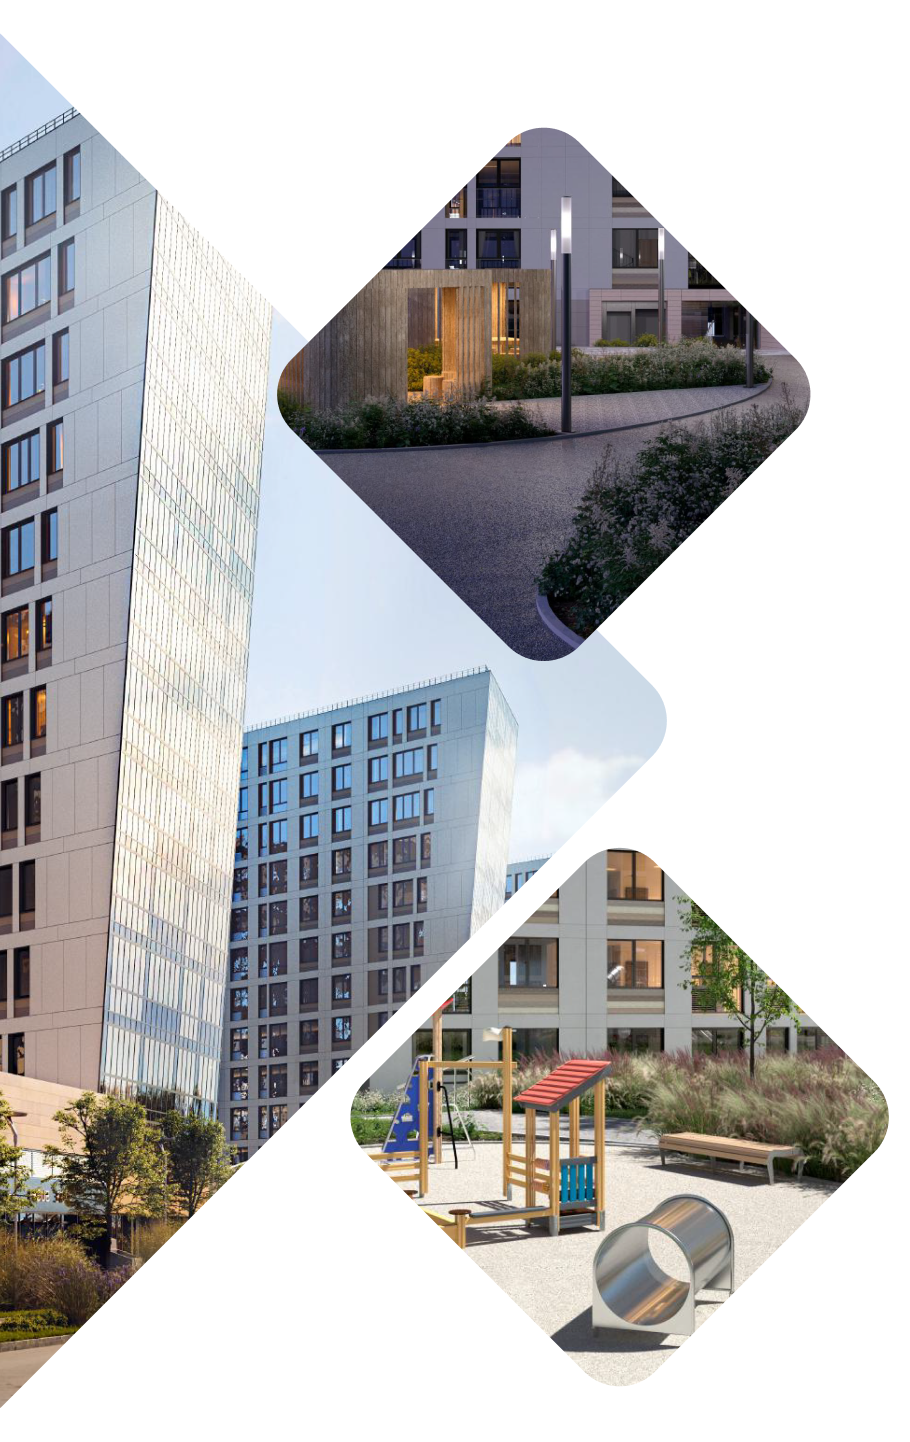
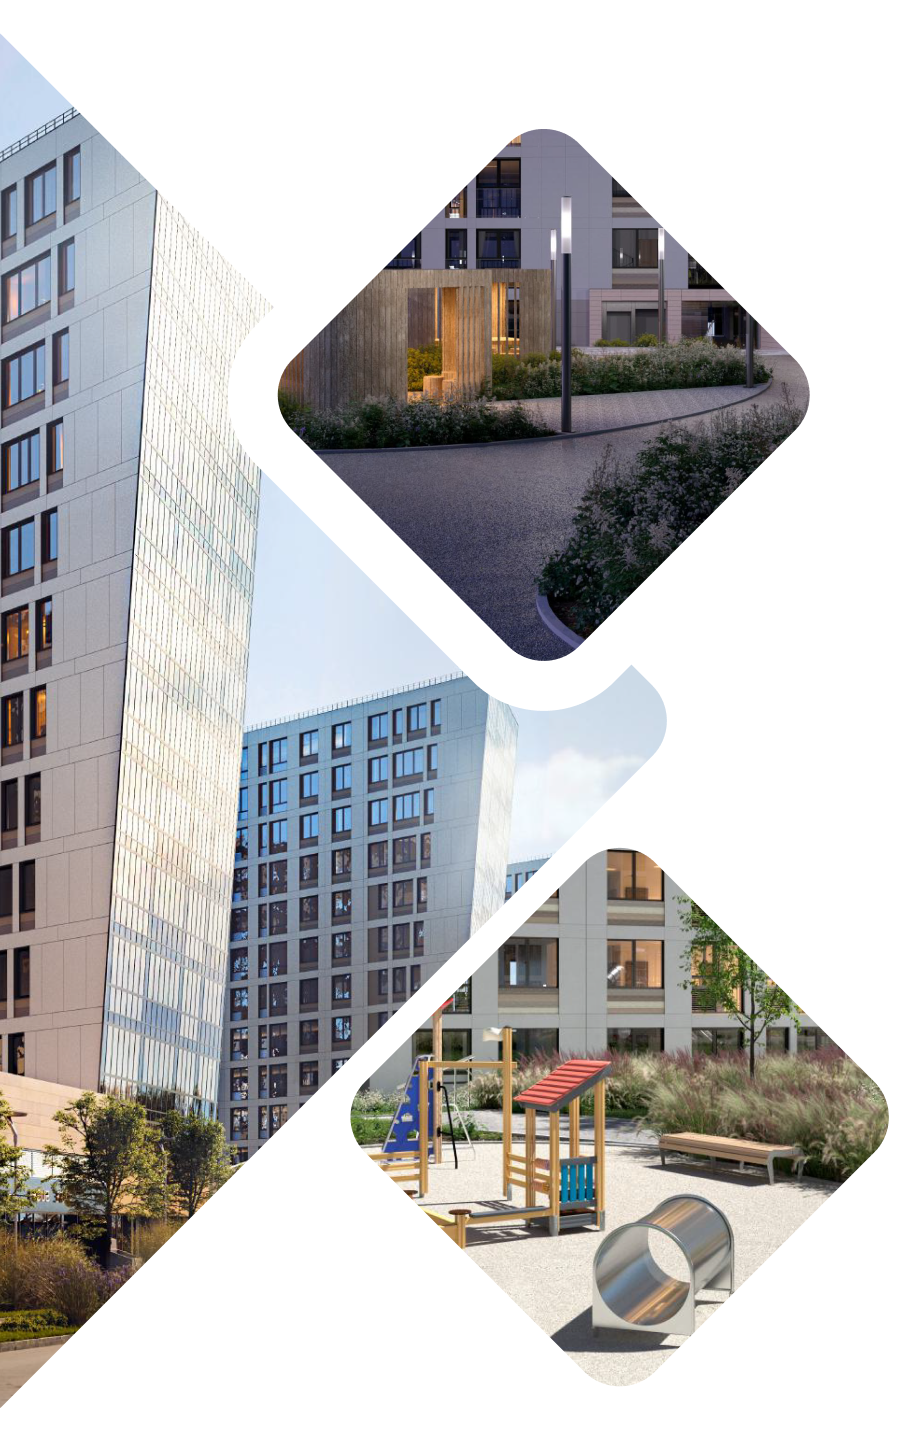
Fix adaptive

Changed region(s): [[0.2462, 0.2184, 0.7077, 0.4993]]

diff --git a/css/style.css b/css/style.css
@@ -56,6 +56,52 @@ ul{
 
 /* Media styles start */
 
+@media (max-width: 2560px) {
+    .item__number{
+        font-size: 150px!important;
+    }
+    .item__text{
+        font-size: 30px!important;
+    }
+    .list__item-1{
+        margin-left: 30px;
+        margin-bottom: 80px;
+        margin-top: 50px;
+    }
+    .list__item-2{
+        margin-bottom: 70px;
+    }
+    .list__item-3{
+        margin-bottom: 140px;
+    }
+    .list__item-4{
+        margin-bottom: 140px;
+    }
+}
+@media (max-width: 1800px) {
+
+    .item-3{
+        max-width: 50%!important;
+    }
+    .principle__title{
+        left: 10%!important;
+        top: 5%!important;
+    }
+
+}
+
+@media (max-width: 1800px) {
+    .principle__title{
+        left: 3%!important;
+        top: 0%!important;
+    }
+}
+@media (max-width: 1600px) {
+    .item-1, .item-2{
+        max-width: 40%!important;
+    }
+}
+
 @media (max-width: 1200px) {
     .header__title{
         display: none;
@@ -73,7 +119,7 @@ ul{
         max-width: 100%!important;
     }
     .principle__title{
-        top: 5%!important;
+        top: 0%!important;
         left: 5%!important;
     }
     .title__num{
@@ -85,6 +131,9 @@ ul{
 }
 
 @media (max-width: 992px) {
+    .list__item-3{
+        margin: 0px 0px 10px 0px!important;
+    }
     .phone__number > input{
         font-size: 25px!important;
     }
@@ -136,6 +185,9 @@ ul{
     }
 }
 @media (max-width: 570px) {
+    .list__item-1{
+        margin-left: 0!important;
+    }
     .phone__number > input{
         font-size: 18px!important;
     }
@@ -197,6 +249,15 @@ ul{
     }
     .footer__content > img{
         max-width: 100%!important;
+    }
+}
+
+@media (max-width: 370px) {
+    .item-1-a{
+        top: 450px!important;
+    }
+    .item-2-a{
+        top: 1262px!important;
     }
 }
 
@@ -296,7 +357,7 @@ ul{
 }
 .item-1{
     position: absolute;
-    top: 171px;
+    top: 122px;
     left: 0;
     max-width: 50%;
     z-index: -1;
@@ -304,7 +365,7 @@ ul{
 
 .item-2{
     position: absolute;
-    top: 1430px;
+    top: 1257px;
     right: 0;
     max-width: 50%;
     z-index: -1;
@@ -313,7 +374,7 @@ ul{
 .item-1-a{
     position: absolute;
     right: 0;
-    top: 366px;
+    top: 412px;
     z-index: -1;
     display: none;
 }
@@ -321,17 +382,16 @@ ul{
 .item-2-a{
     position: absolute;
     right: 0;
-    top: 1232px;
+    top: 1062px;
     z-index: -1;
     display: none;
 }
 
 .advantages__list{
-    max-width: 560px;
+    max-width: 716px;
     display: flex;
     flex-direction: column;
     justify-content: flex-start;
-    row-gap: 120px;
     margin-top: 50px;
 }
 .list__item{
@@ -366,18 +426,18 @@ ul{
     position: relative;
 }
 .item{
-    padding: 70px 0 100px;
-    font-size: 32px;
+    padding: 67px 0 76px;
+    font-size: 40px;
     line-height: 49px;
 }
 .item-reverse{
     padding: 90px 0;
-    font-size: 32px;
+    font-size: 40px;
     line-height: 49px;
     padding-right: 45px;
 }
 .item-reverse.item-a{
-    padding-top: 80px;
+    padding-top: 65px;
     padding-bottom: 142px;
 }
 .item-reverse > .container{
@@ -411,15 +471,15 @@ ul{
 .item-a{
     background-color: #F7F7F7;
     padding-right: 50px!important;
-    padding: 40px 0;
+    padding: 42px 0;
 }
 .item-a > .container > .item__title > strong{
     color: #434250;
 }
 .item-3{
     position: absolute;
-    left: -100px;
-    top: -280px;
+    top: -316px;
+
     max-width: 60%;
 }
 .item-4{
@@ -431,7 +491,7 @@ ul{
 .principle__title{
     position: absolute;
     top: 10%;
-    left: 15%;
+    left: 18%;
     display: flex;
     flex-direction: column;
     align-items: center;
@@ -488,14 +548,14 @@ ul{
 
 /* Footer start */
 .footer{
-    padding: 100px 0;
+    padding: 120px 0;
 }
 .footer__content{
     display: flex;
     justify-content: flex-start;
     align-items: flex-start;
     flex-wrap: wrap;
-    column-gap: 100px;
+    column-gap: 120px;
     row-gap: 50px;
     
 }
@@ -508,7 +568,8 @@ ul{
     display: flex;
     flex-direction: column;
     row-gap: 30px;
-    font-weight: 500;
+    font-weight: 600;
+    margin-top: 50px;
 }
 .footer__info{
     color: #000;
@@ -516,6 +577,7 @@ ul{
     display: flex;
     flex-direction: column;
     row-gap: 30px;
-    font-weight: 500;
+    font-weight: 600;
+    margin-top: 50px;
 }
 /* Footer end */

diff --git a/index.html b/index.html
@@ -3,7 +3,7 @@
 <head>
     <meta charset="UTF-8">
     <meta http-equiv="X-UA-Compatible" content="IE=edge">
-    <meta name="viewport" content="width=device-width, initial-scale=1.0">
+    <meta name="viewport" content="width=device-width, initial-scale=1.0, maximum-scale=1.0, user-scalable=no">
     <title>Document</title>
     <!-- Style css -->
     <link rel="stylesheet" href="css/style.css">
@@ -46,7 +46,7 @@
                     <img src="img/item-1.png" alt="" class="item-1">
                     <img src="img/item-1-a.png" alt="" class="item-1-a">
                     <div class="advantages__list">
-                        <div class="list__item">
+                        <div class="list__item list__item-1">
                             <span class="item__number">01</span>
                             <p class="item__text">
                                 <strong>Знаем все плюсы и минусы каждого Застройщика,</strong><br />
@@ -54,7 +54,7 @@
                             </p>
                         </div>
 
-                        <div class="list__item">
+                        <div class="list__item list__item-2">
                             <span class="item__number">02</span>
                             <p class="item__text">
                                 <strong>Агентство с полным циклом работы</strong><br />
@@ -62,7 +62,7 @@
                             </p>
                         </div>
 
-                        <div class="list__item">
+                        <div class="list__item list__item-3">
                             <span class="item__number">03</span>
                             <p class="item__text">
                                 <strong>Работаем Бесплатно для Клиента, нашу работу оплачивают строительные компании</strong><br />
@@ -78,7 +78,7 @@
                     <img src="img/item-2.png" alt="" class="item-2">
                     <img src="img/item-2-a.png" alt="" class="item-2-a">
                     <div class="advantages__list">
-                        <div class="list__item">
+                        <div class="list__item list__item-4">
                             <span class="item__number">04</span>
                             <p class="item__text">         
                                 <strong>Учтем все скидки и акции Застройщика</strong><br />
@@ -87,7 +87,7 @@
                             </p>
                         </div>
 
-                        <div class="list__item">
+                        <div class="list__item list__item-5">
                             <span class="item__number">05</span>
                             <p class="item__text">
                                 <strong>Бесплатно одобрим ипотеку в любом Банке</strong><br />
@@ -170,8 +170,8 @@
                 <div class="item-reverse">
                     <div class="container">
                         <div class="item__title">
-                            <strong>Сегментация потребностей покупателя</strong><br />
-для каждого типа клиента, подбор по индивидуальным потребностям
+                            <strong>Сегментация<br /> потребностей покупателя</strong><br />
+для каждого типа клиента, подбор по<br /> индивидуальным<br /> потребностям
                         </div>
                     </div>
                 </div>
